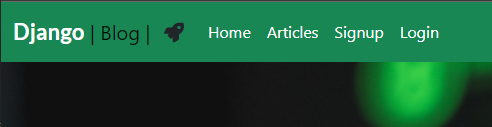
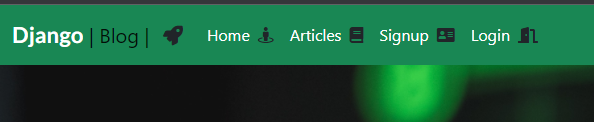
Add first batch of manual testing screenshot updates for latest UX

diff --git a/p4-django-project/settings.py b/p4-django-project/settings.py
@@ -61,7 +61,7 @@ INSTALLED_APPS = [
 
 SITE_ID = 1
 
-# ACCOUNT_EMAIL_VERIFICATION = "none"
+ACCOUNT_EMAIL_VERIFICATION = "none"
 # ACCOUNT_LOGOUT_ON_GET = True
 
 LOGIN_REDIRECT_URL = '/'

diff --git a/TESTING.md b/TESTING.md
@@ -7,13 +7,13 @@ The key tests below are part of the manual testing procedures I have followed to
 No. |Test Case | Expected Result | Actual Result | Pass/Fail | Link
  ------------- |------------- | ------------- | ------------ | ------------- | ------------- 
   1 | Register an account | When clicking the `Sign Up` option, a user should be presented with the sign up form. Upon population of the required fields within the form, the user should  have a newly created account. | User account created as expected | Pass | [Screenshot](readme/testing/test1-signup.png)
-  2 | Sign in | Upon clicking the `Login` option from the navigation bar, the `Sign In` form should display to the user, prompting a username & password. Upon entering these details, a user should be logged into the site| Log in option & form functions as expected | Pass | [Screenshot](readme/testing/test2-signin.png)
+  2 | Log in | Upon clicking the `Login` option from the navigation bar, the `Log In` form should display to the user, prompting a username & password. Upon entering these details, a user should be logged into the site| Log in option & form functions as expected | Pass | [Screenshot](readme/testing/test2-signin.png)
   3 | Open an article | When a user clicks on the `title` of an article, the detailed content of the article should load, together with the articles image, the excerpt, and the most recent time of editing - allowing a user to read the content of the article | Open article functionality operates as expected | Pass | [Screenshot](readme/testing/test3-openarticle.png)
   4 | Post a comment | Clicking into the `Leave a comment` section below an article should allow a user to compose & submit a comment in relation to the article content. Upon clicking of the `submit` button, the user's comment will have been submitted for approval | Post Comment functionality operates as expected | Pass | [Screenshot](readme/testing/test4-postcomment.png)
   5 | Like an article | Clicking the `like` icon under an article should increment the like count on the article by one. This functionality should only be available to users who are signed in - Users who are not signed in should be unable to add a like to an article. | Like functionality operates as expected for users - and will only permit likes from signed in users | Pass | [Screenshot](readme/testing/test5-like.png)
   6 | Unlike an article | Clicking the `like` icon under an article for a *second time* should *decrement* the like count on the article by one. This functionality should only be available to users who are signed in - Users who are not signed in should be unable to remove (or add) a like to an article. | Functionality operates as expected | Pass | [Screenshot](readme/testing/test6-unlike.png)
-  7 | Sign out | When logged in and clicking on the `Logout` option from the navigation bar, a user should be presented with the `Sign Out` screen - asking the user for a confirmation that they do wish to sign out, and a `Sign Out` button which the user can click to formalise their Sign Out | Functionality operates as expected  | Pass | [Screenshot](readme/testing/test7-signout.png)
-  8 | Navigation Bar & Signin Status | The Navigation bar should have two statuses - firstly, signed in, where the menu options should consist of `Home`, `Polls`, and `Logout`... and secondly, signed out, where the menu options should consist of `Home`, `Signup`, and `Login` | Functionality operates as expected | Pass | [Screenshot 1](readme/testing/test8-navbar-1.png) [Screenshot 2](readme/testing/test8-navbar-2.png)
+  7 | Log out | When logged in and clicking on the `Logout` option from the navigation bar, a user should be presented with the `Sign Out` screen - asking the user for a confirmation that they do wish to sign out, and a `Log Out` button which the user can click to formalise their Sign Out | Functionality operates as expected  | Pass | [Screenshot](readme/testing/test7-signout.png)
+  8 | Navigation Bar & Signin Status | The Navigation bar should have two statuses - firstly, signed in, where the menu options should consist of `Home`, `Articles`, `Polls`, and `Logout`... and secondly, signed out, where the menu options should consist of `Home`, `Articles`, `Signup`, and `Login` | Functionality operates as expected | Pass | [Screenshot 1](readme/testing/test8-navbar-1.png) [Screenshot 2](readme/testing/test8-navbar-2.png)
   9 | View Poll Question List | A user (when signed in) should be able to view a list of the available poll questions when clicking on the `Vote in Polls` button from the landing page, or from the `Polls` option on the Nav bar | Functionality operates as expected | Pass | [Screenshot](readme/testing/test9-polls.png)
   10 | View Poll Question Answer Choices | A user should be able to view a list of the available answer choices for a poll question when clicking on the `Question` Link button from the polls index page | Functionality operates as expected | Pass | [Screenshot](readme/testing/test10-choices.png)
   11 | Vote in a Poll Question | A user should be able to vote for their preference from the available list of the answer choices for a poll question when selecting a `choice radio button` and clicking on the `Vote` button on the Poll Question Detail Page | Functionality operates as expected | Pass | [Screenshot](readme/testing/test11-vote.png)
